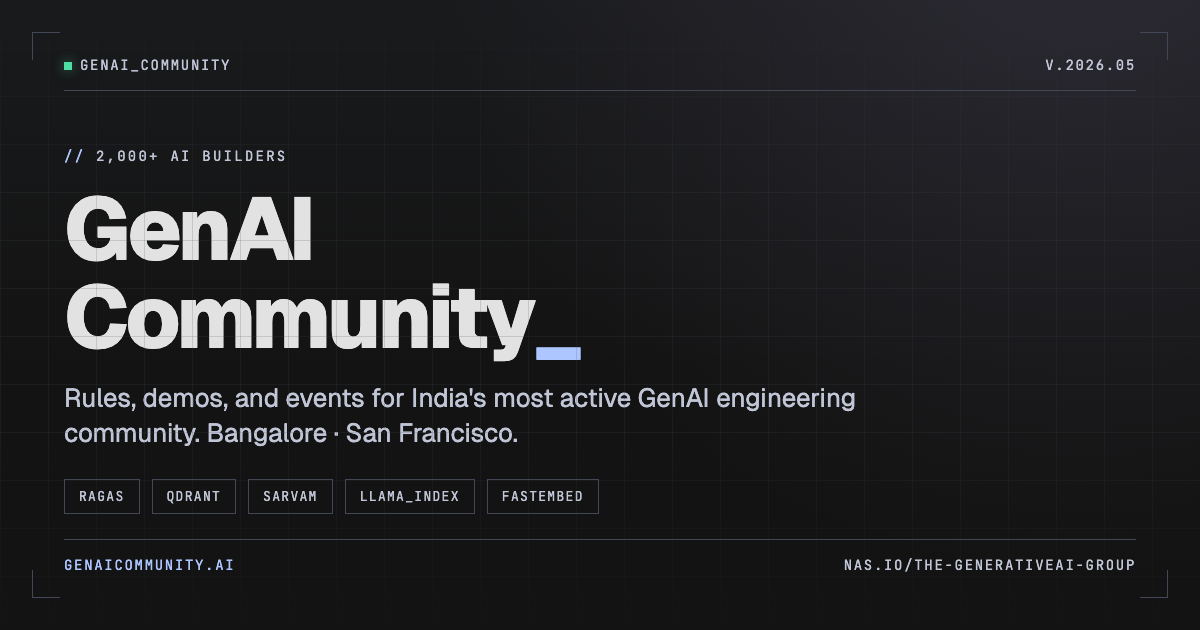
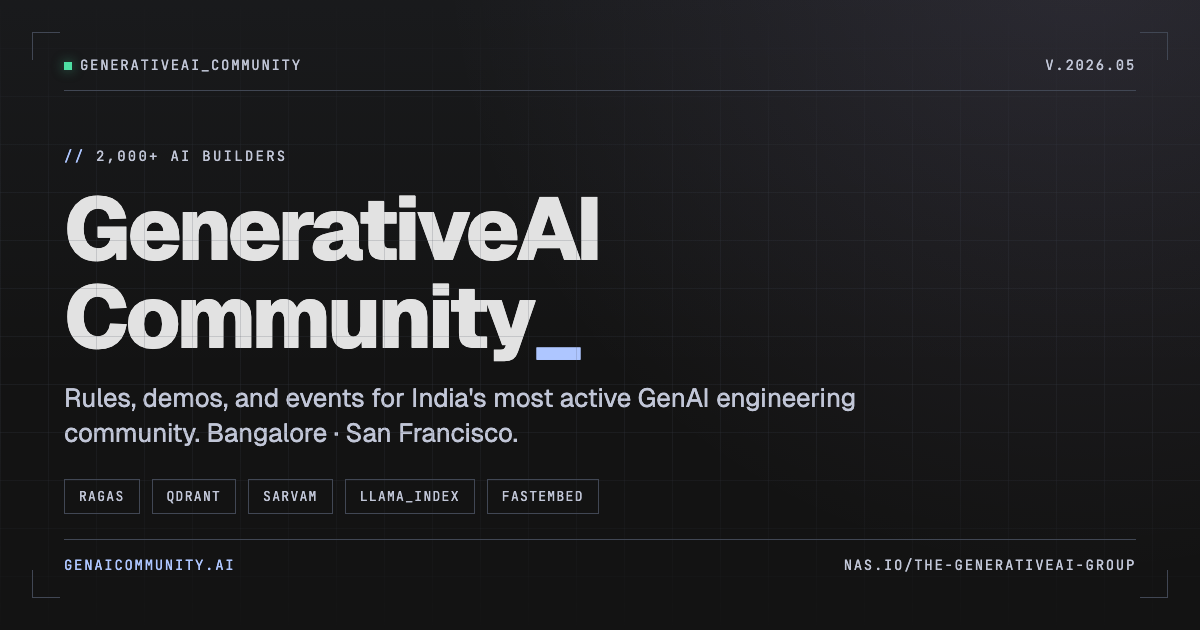
rebrand: GENAI_COMMUNITY → GenerativeAI Community across pages, OG image, footer, header

Changed region(s): [[0.185, 0.3016, 0.5242, 0.4222], [0.0925, 0.0905, 0.2467, 0.1206]]

diff --git a/scripts/render-og.html b/scripts/render-og.html
@@ -105,13 +105,13 @@
   <div class="corner c-br"></div>
 
   <div class="topbar">
-    <span><span class="dot"></span>GENAI_COMMUNITY</span>
+    <span><span class="dot"></span>GENERATIVEAI_COMMUNITY</span>
     <span>v.2026.05</span>
   </div>
 
   <div class="main">
     <span class="label"><span class="slash">//</span> 2,000+ AI BUILDERS</span>
-    <h1>GenAI<br/>Community<span class="accent">_</span></h1>
+    <h1>GenerativeAI<br/>Community<span class="accent">_</span></h1>
     <p class="tagline">Rules, demos, and events for India's most active GenAI engineering community. Bangalore · San Francisco.</p>
     <div class="chips">
       <span class="chip">RAGAS</span>

diff --git a/src/content/community/index.md b/src/content/community/index.md
@@ -1,5 +1,5 @@
 ---
-title: "GenAI Community"
+title: "GenerativeAI Community"
 description: "Rules, resources, and recommendations for the Generative AI Community."
 lead: "A 2,000+ member community of CTOs, ML engineers, and open-source hackers across Bangalore and San Francisco."
 ---

diff --git a/README.md b/README.md
@@ -1,4 +1,4 @@
-# GenAI Community
+# GenerativeAI Community
 
 Static portal for the Generative AI Community (2,000+ members across Bangalore and San Francisco). Rules, demos, events.
 
